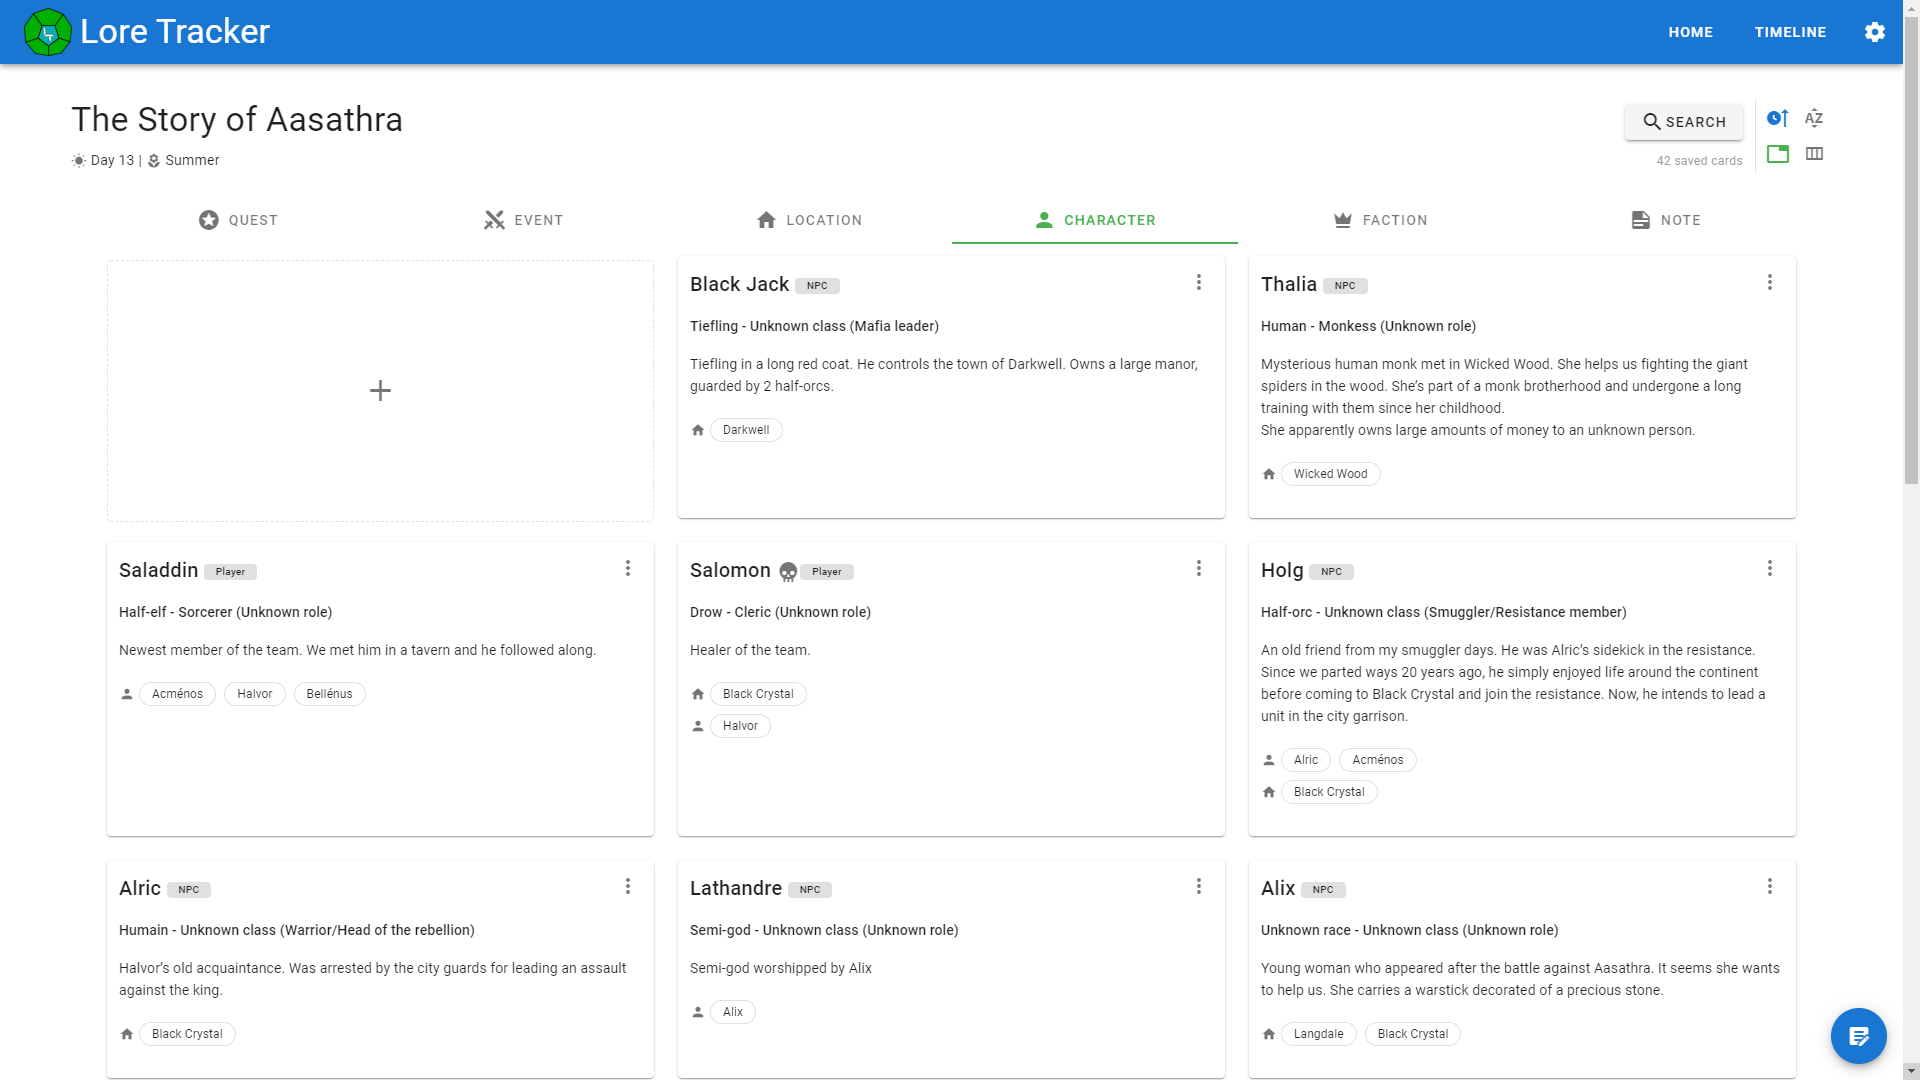
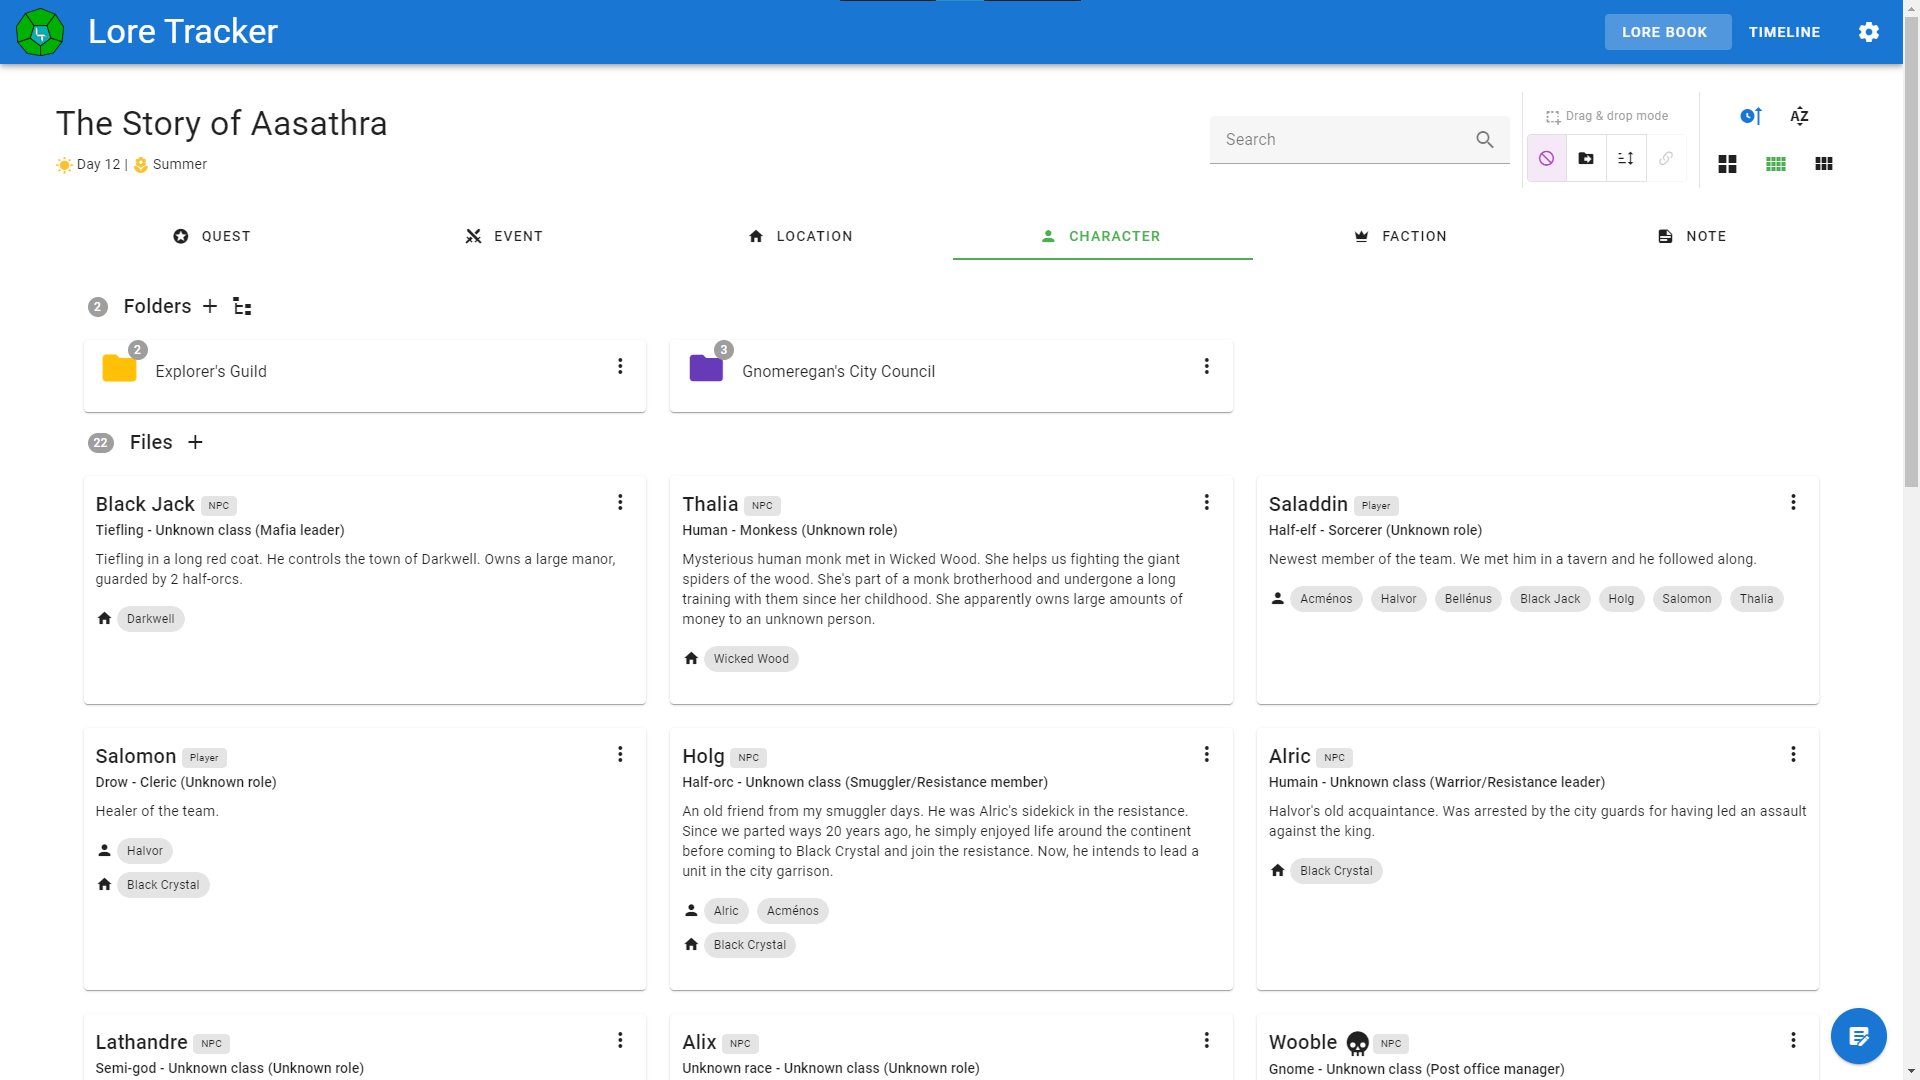
chore: update README

diff --git a/README.md b/README.md
@@ -1,18 +1,21 @@
 # Lore Tracker
 
-Lore Tracker allows you to easily save, manage and visualise story elements for Table-top RPGs.
+[Lore Tracker](https://www.lore-tracker.app/) allows you to easily save, manage and visualise story elements for Table-top RPGs.
 
 You can't remember the name of that NPC you met six months ago ? Lore Tracker has got you covered.
 
 ![characters tab](screenshots/characters.png)
 ![characters page](screenshots/timeline.png)
+
 ## Features
 
 * Add, edit and delete story elements ("cards") such as Quests, Events, Locations, Characters... 
-* Markdown language support for texts
+* Group cards under folders
 * Link cards together with tags
-* Sort cards with Drag & drop
-* Card filtering
+* Sort cards using Drag & drop
+* Filter cards using the search bar
+* Backup and load data saves easily
+* Markdown language support for texts
 * Events visualisation on a timeline
 * Light and dark themes
 * Navigation hotkeys
@@ -33,7 +36,7 @@ npm install
 
 * Compile and hot-reload for development
 ```
-npm run serve
+npm run dev
 ```
 
 * Compile and minify for production
@@ -51,4 +54,4 @@ npm --no-git-tag-version version <major|minor|patch>
 
 This program is licensed under the GNU General Public License v3.0.
 
-© 2021-2022 const39
+© 2021-2023 const39
